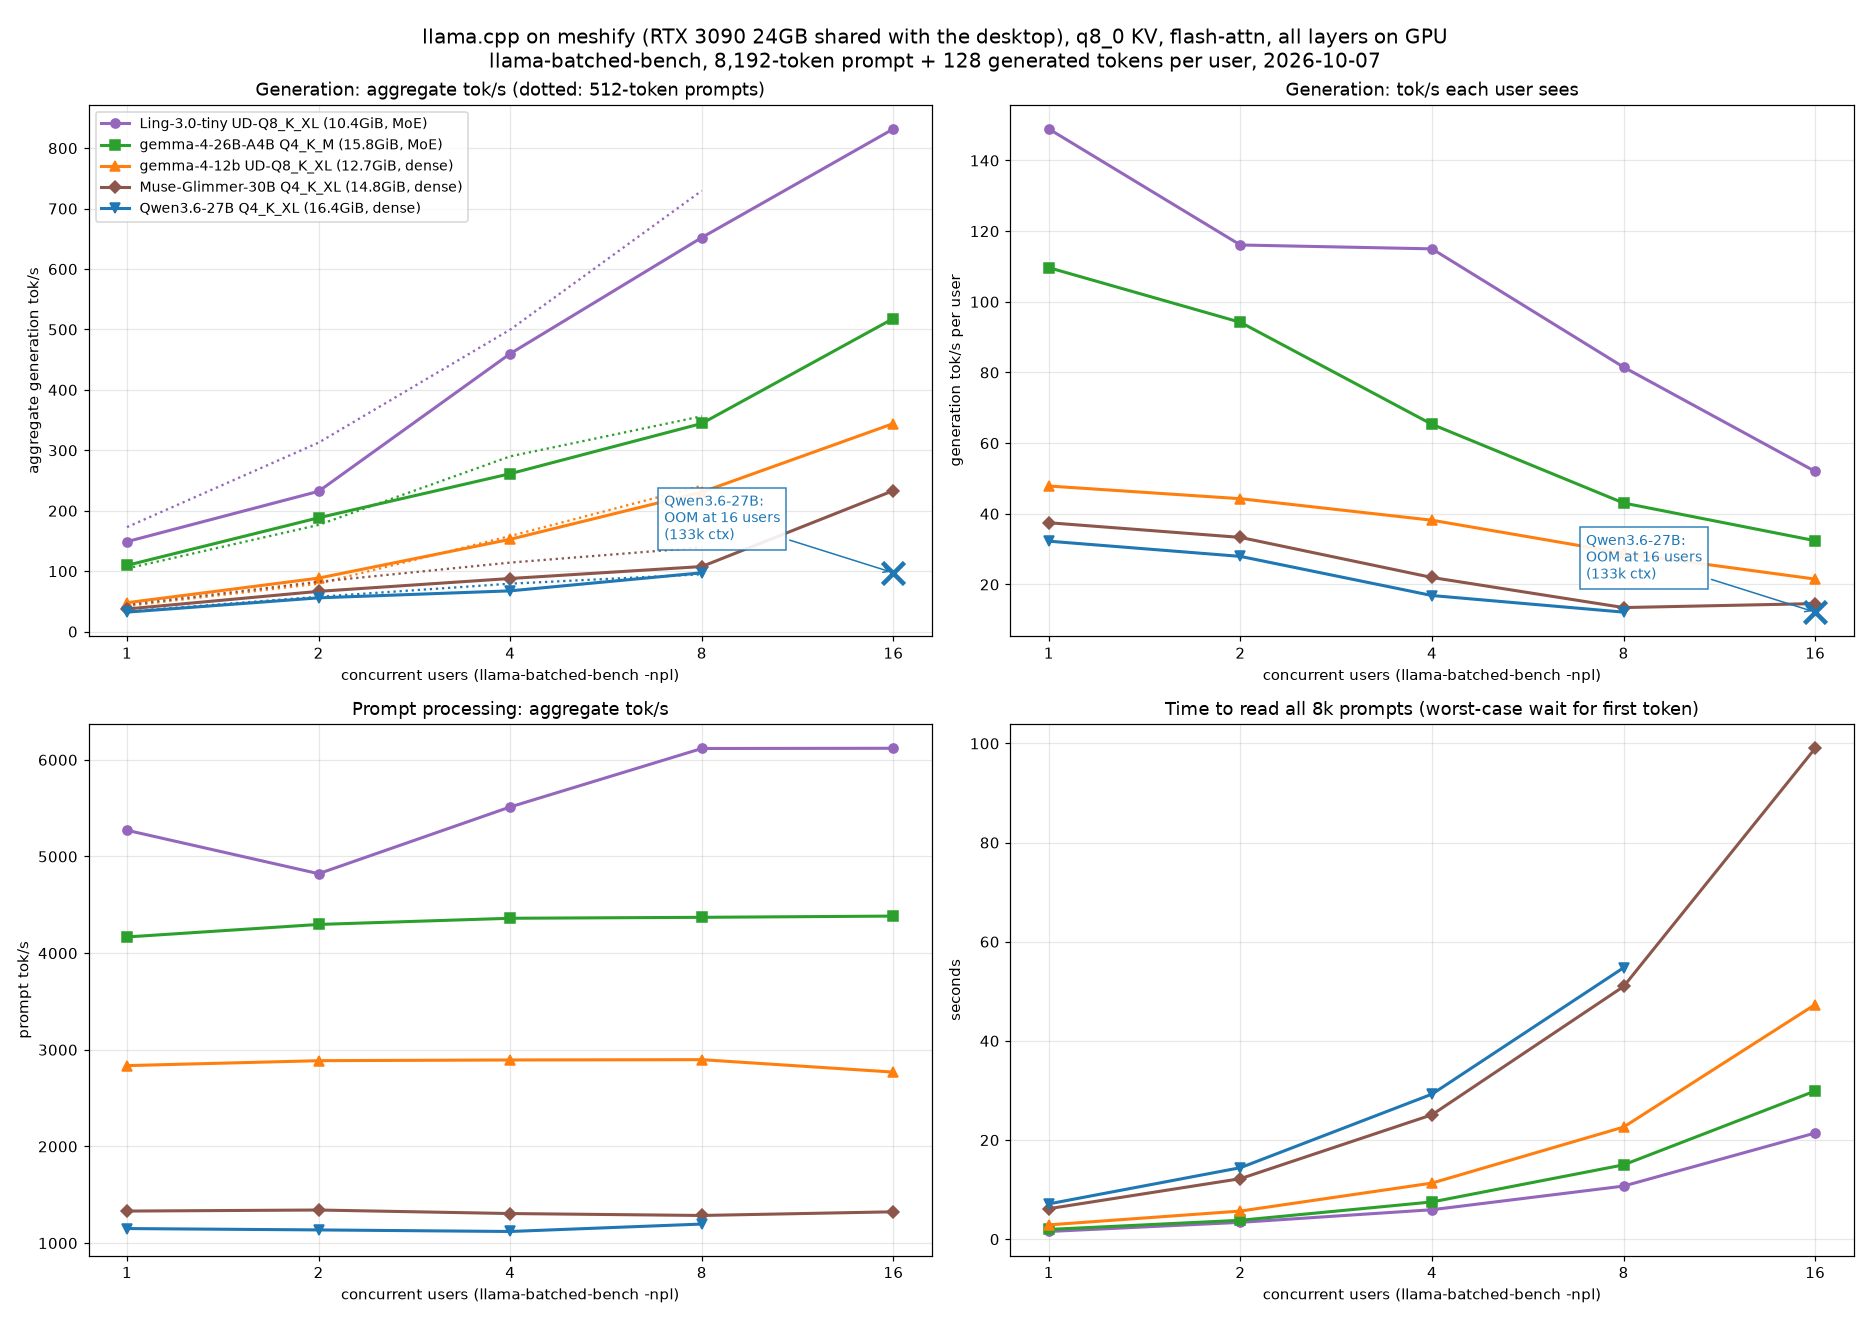
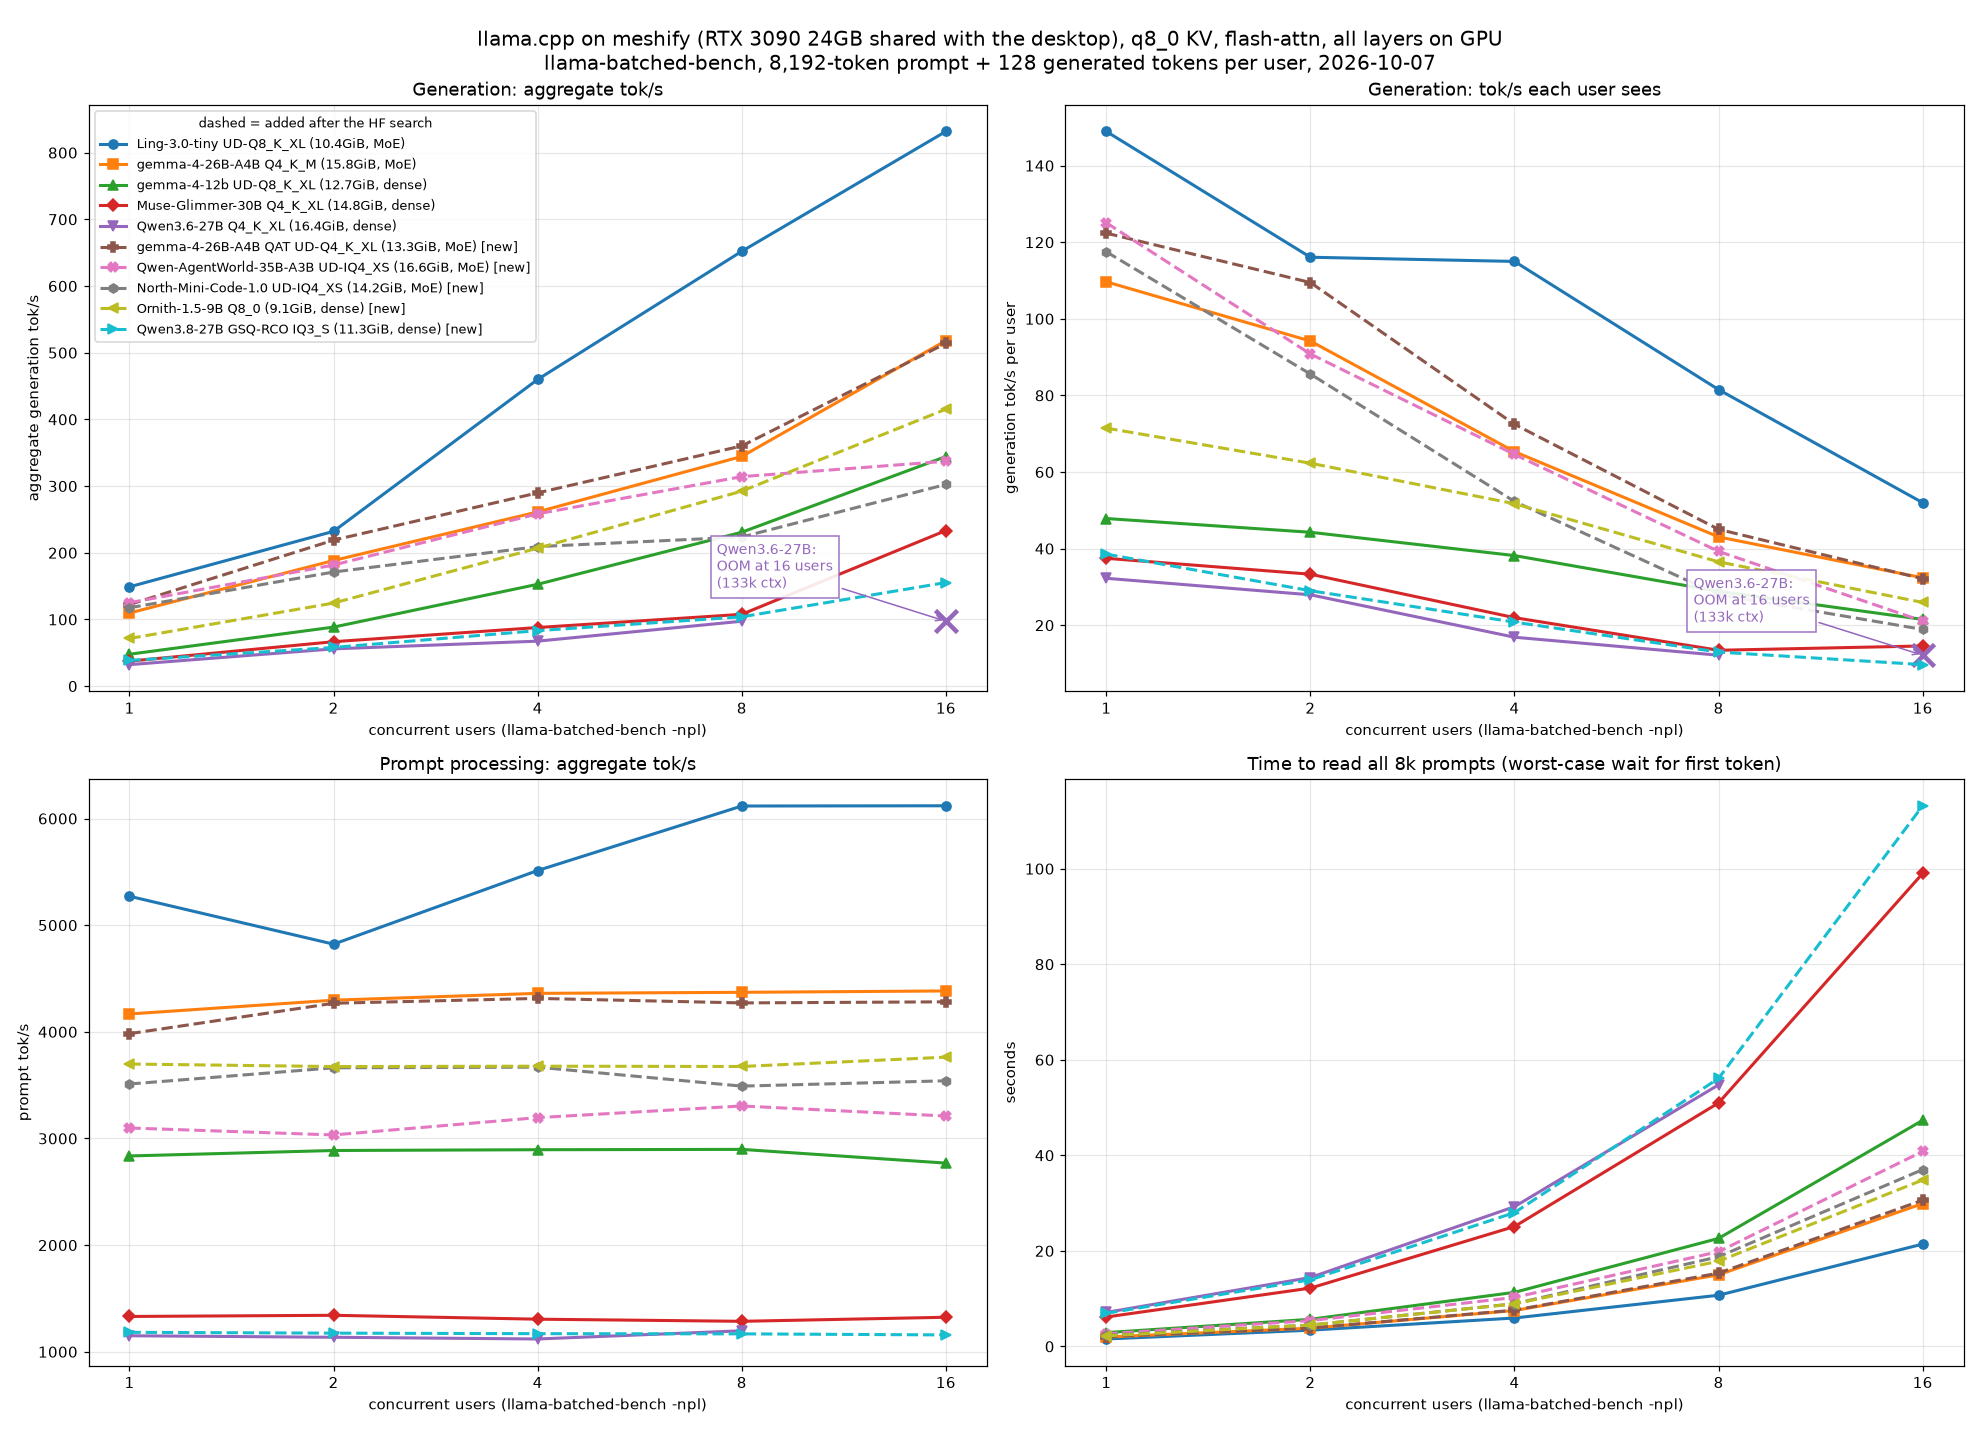
meshify: add 5 llama.cpp models found on Hugging Face
All five run fully on the RTX 3090 with 16 users x 8k prompts in the
2026-10-07 sweep, and their cards report strong agentic/coding scores:
Qwen3.8-27B (GSQ-RCO IQ3_S, BF16-level per its card), Qwen-AgentWorld-
35B-A3B, Ornith-1.5-9B, North-Mini-Code-1.0 and the gemma-4-26B-A4B QAT
build. gemma-4-31B QAT is listed commented out: its F32 mmproj leaves no
room for the sliding-window cache.

README: add the five models to the sweep plot and table, with the card
scores that motivated each pick and the candidates that were rejected.

diff --git a/README.md b/README.md
@@ -112,37 +112,75 @@ enables only the models that run fully on the GPU with at least 32k tokens of
 context. The other models stay in the list as comments, for a bigger GPU. The
 concurrency sweep below used `llama-batched-bench` (q8_0 KV cache,
 flash-attn, all layers on the GPU) with an 8,192-token prompt and 128
-generated tokens per user (2026-10-07):
+generated tokens per user (2026-10-07). The dashed lines are the five models
+added after a Hugging Face search:
 
 ![llama.cpp on meshify: throughput vs. concurrent users](docs/diagrams/llama-cpp-meshify-concurrency.png)
 
-Generation tok/s, aggregate over all users (per user in parentheses):
+Generation tok/s, aggregate over all users (per user in parentheses), and
+prompt processing tok/s:
 
-| Model | 1 | 2 | 4 | 8 | 16 |
-|---|---|---|---|---|---|
-| Ling-3.0-tiny UD-Q8_K_XL (MoE) | 149 | 232 (116) | 460 (115) | 652 (82) | 832 (52) |
-| gemma-4-26B-A4B Q4_K_M (MoE) | 110 | 188 (94) | 261 (65) | 344 (43) | 518 (32) |
-| gemma-4-12b UD-Q8_K_XL | 48 | 89 (44) | 153 (38) | 231 (29) | 344 (22) |
-| Muse-Glimmer-30B Q4_K_XL | 37 | 67 (33) | 88 (22) | 108 (13) | 233 (15) |
-| Qwen3.6-27B Q4_K_XL | 32 | 56 (28) | 67 (17) | 97 (12) | OOM |
+| Model | 1 | 2 | 4 | 8 | 16 | Prompt |
+|---|---|---|---|---|---|---|
+| Ling-3.0-tiny UD-Q8_K_XL (MoE) | 149 | 232 (116) | 460 (115) | 652 (82) | 832 (52) | ~5.5k |
+| gemma-4-26B-A4B Q4_K_M (MoE) | 110 | 188 (94) | 261 (65) | 344 (43) | 518 (32) | ~4.3k |
+| gemma-4-26B-A4B QAT UD-Q4_K_XL (MoE) [new] | 122 | 219 (109) | 290 (72) | 360 (45) | 514 (32) | ~4.3k |
+| Qwen-AgentWorld-35B-A3B UD-IQ4_XS (MoE) [new] | 125 | 182 (91) | 258 (65) | 314 (39) | 337 (21) | ~3.2k |
+| North-Mini-Code-1.0 UD-IQ4_XS (MoE) [new] | 118 | 171 (86) | 209 (52) | 224 (28) | 302 (19) | ~3.6k |
+| Ornith-1.5-9B Q8_0 [new] | 71 | 125 (62) | 207 (52) | 292 (37) | 415 (26) | ~3.7k |
+| gemma-4-12b UD-Q8_K_XL | 48 | 89 (44) | 153 (38) | 231 (29) | 344 (22) | ~2.9k |
+| Qwen3.8-27B GSQ-RCO IQ3_S [new] | 39 | 58 (29) | 83 (21) | 104 (13) | 155 (10) | ~1.2k |
+| Muse-Glimmer-30B Q4_K_XL | 37 | 67 (33) | 88 (22) | 108 (13) | 233 (15) | ~1.3k |
+| Qwen3.6-27B Q4_K_XL | 32 | 56 (28) | 67 (17) | 97 (12) | OOM | ~1.2k |
 
-- gemma-4-26B-A4B is the best fit for many users. It gives 110 tok/s to one
-  user and still 32 tok/s to each of 16 users. Ling-3.0-tiny is faster, but
+Why the new models were picked (scores are from the model cards, not
+checked here):
+
+- Qwen3.8-27B is the model that desg0 serves. Its card reports SWE-bench Pro
+  61.7 and Terminal-Bench 2.1 73.0, against 53.5 / 63.4 for Qwen3.6-27B and
+  51.2 / 51.7 for Muse-Glimmer-30B. The ISTA-DASLab GSQ-RCO IQ3_S quant
+  (3.5 bpw) reports BF16-level scores (GPQA-D 89.4 vs 89.9, LiveCodeBench v6
+  85.7 vs 85.7). The `IQ3_S` tag resolves to the `-mtp` file, which also has
+  the MTP head for speculative decoding.
+- Qwen-AgentWorld-35B-A3B scores 56.4 overall on Qwen's agent suite (MCP,
+  search, terminal, SWE, Android, web, OS), against 56.0 for Claude Sonnet 4.6
+  and 47.7 for Qwen3.5-35B-A3B.
+- Ornith-1.5-9B reports SWE-bench Verified 70.6 and Terminal-Bench 2.1 46.2,
+  close to Qwen3.6-35B-A3B (73.4 / 52.5) at a quarter of the size.
+- North-Mini-Code-1.0 is Cohere's 30B-A3B model for code and agentic software
+  engineering (256k context). Its card shows the scores only as an image.
+- The gemma-4-26B-A4B QAT build is Google's quantization-aware-trained
+  checkpoint. It is 2.5GiB smaller and 11% faster for one user than the
+  Q4_K_M build of the same model.
+
+Findings:
+
+- gemma-4-26B-A4B (QAT or Q4_K_M) is the best fit for many users: ~515 tok/s
+  aggregate and 32 tok/s per user at 16 users. Ling-3.0-tiny is faster, but
   it is a much smaller model.
-- Prompt processing speed does not increase with more users (~1.2k tok/s for
-  Qwen3.6-27B, ~1.3k Muse, ~2.9k gemma-4-12b, ~4.4k gemma-4-26B, ~6k Ling).
-  The time to read all prompts thus grows linearly. With 8 users, the last
-  user of Qwen3.6-27B or Muse waits ~55 s for the first token.
-- Qwen3.6-27B runs out of memory at 16 users (133k tokens of context); 8 users
-  fit.
-- With one user, generation speed is almost the same for 8k prompts as for
-  512-token prompts (dotted lines in the plot).
+- For one user, the 3B-4B-active MoE models give 118-125 tok/s.
+  Qwen-AgentWorld and North-Mini-Code scale less well: their aggregate
+  speed is almost flat from 8 to 16 users.
+- Qwen3.8-27B at 3.5 bpw is 20% faster than Qwen3.6-27B at 4.5 bpw (39 vs 32
+  tok/s) and, with smaller weights, it fits 16 users. Qwen3.6-27B runs out of
+  memory at 16 users (133k tokens of context).
+- Prompt processing speed does not increase with more users. The time to read
+  all prompts thus grows linearly. The dense 27B-30B models read only
+  ~1.2-1.3k tok/s, so with 8 users the last user waits ~55 s for the first
+  token, and with 16 users ~100 s.
+- With one user, generation speed for 8k prompts is within 15% of the speed
+  for 512-token prompts.
 - The router serves one request at a time (`parallel = 1`). To use the
   concurrency above, raise `parallel`; each slot costs extra VRAM. `kev` is
   disabled on meshify because it lazy-loads ~5.2GB onto the same GPU.
 - This measures the llama.cpp engine directly, not the HTTP server. The
   server also loads the vision projector and keeps a 1GiB `--fit` margin, so
   it holds slightly less context than the benchmark.
+- Not added: Ternary-Bonsai-2-27B needs the PrismML llama.cpp fork for its
+  PQ2_0 / PTQ1_0 types. Xing4.0-29B-A4B and Cloudflare Clef use
+  architectures that the packaged llama.cpp does not support yet. The
+  gemma-4-31B QAT build (16.1GiB + 2.1GiB F32 mmproj) leaves no room for its
+  sliding-window cache.
 
 ### 🧪 Sandboxed agent tasks (ax + Agent Substrate)
 
